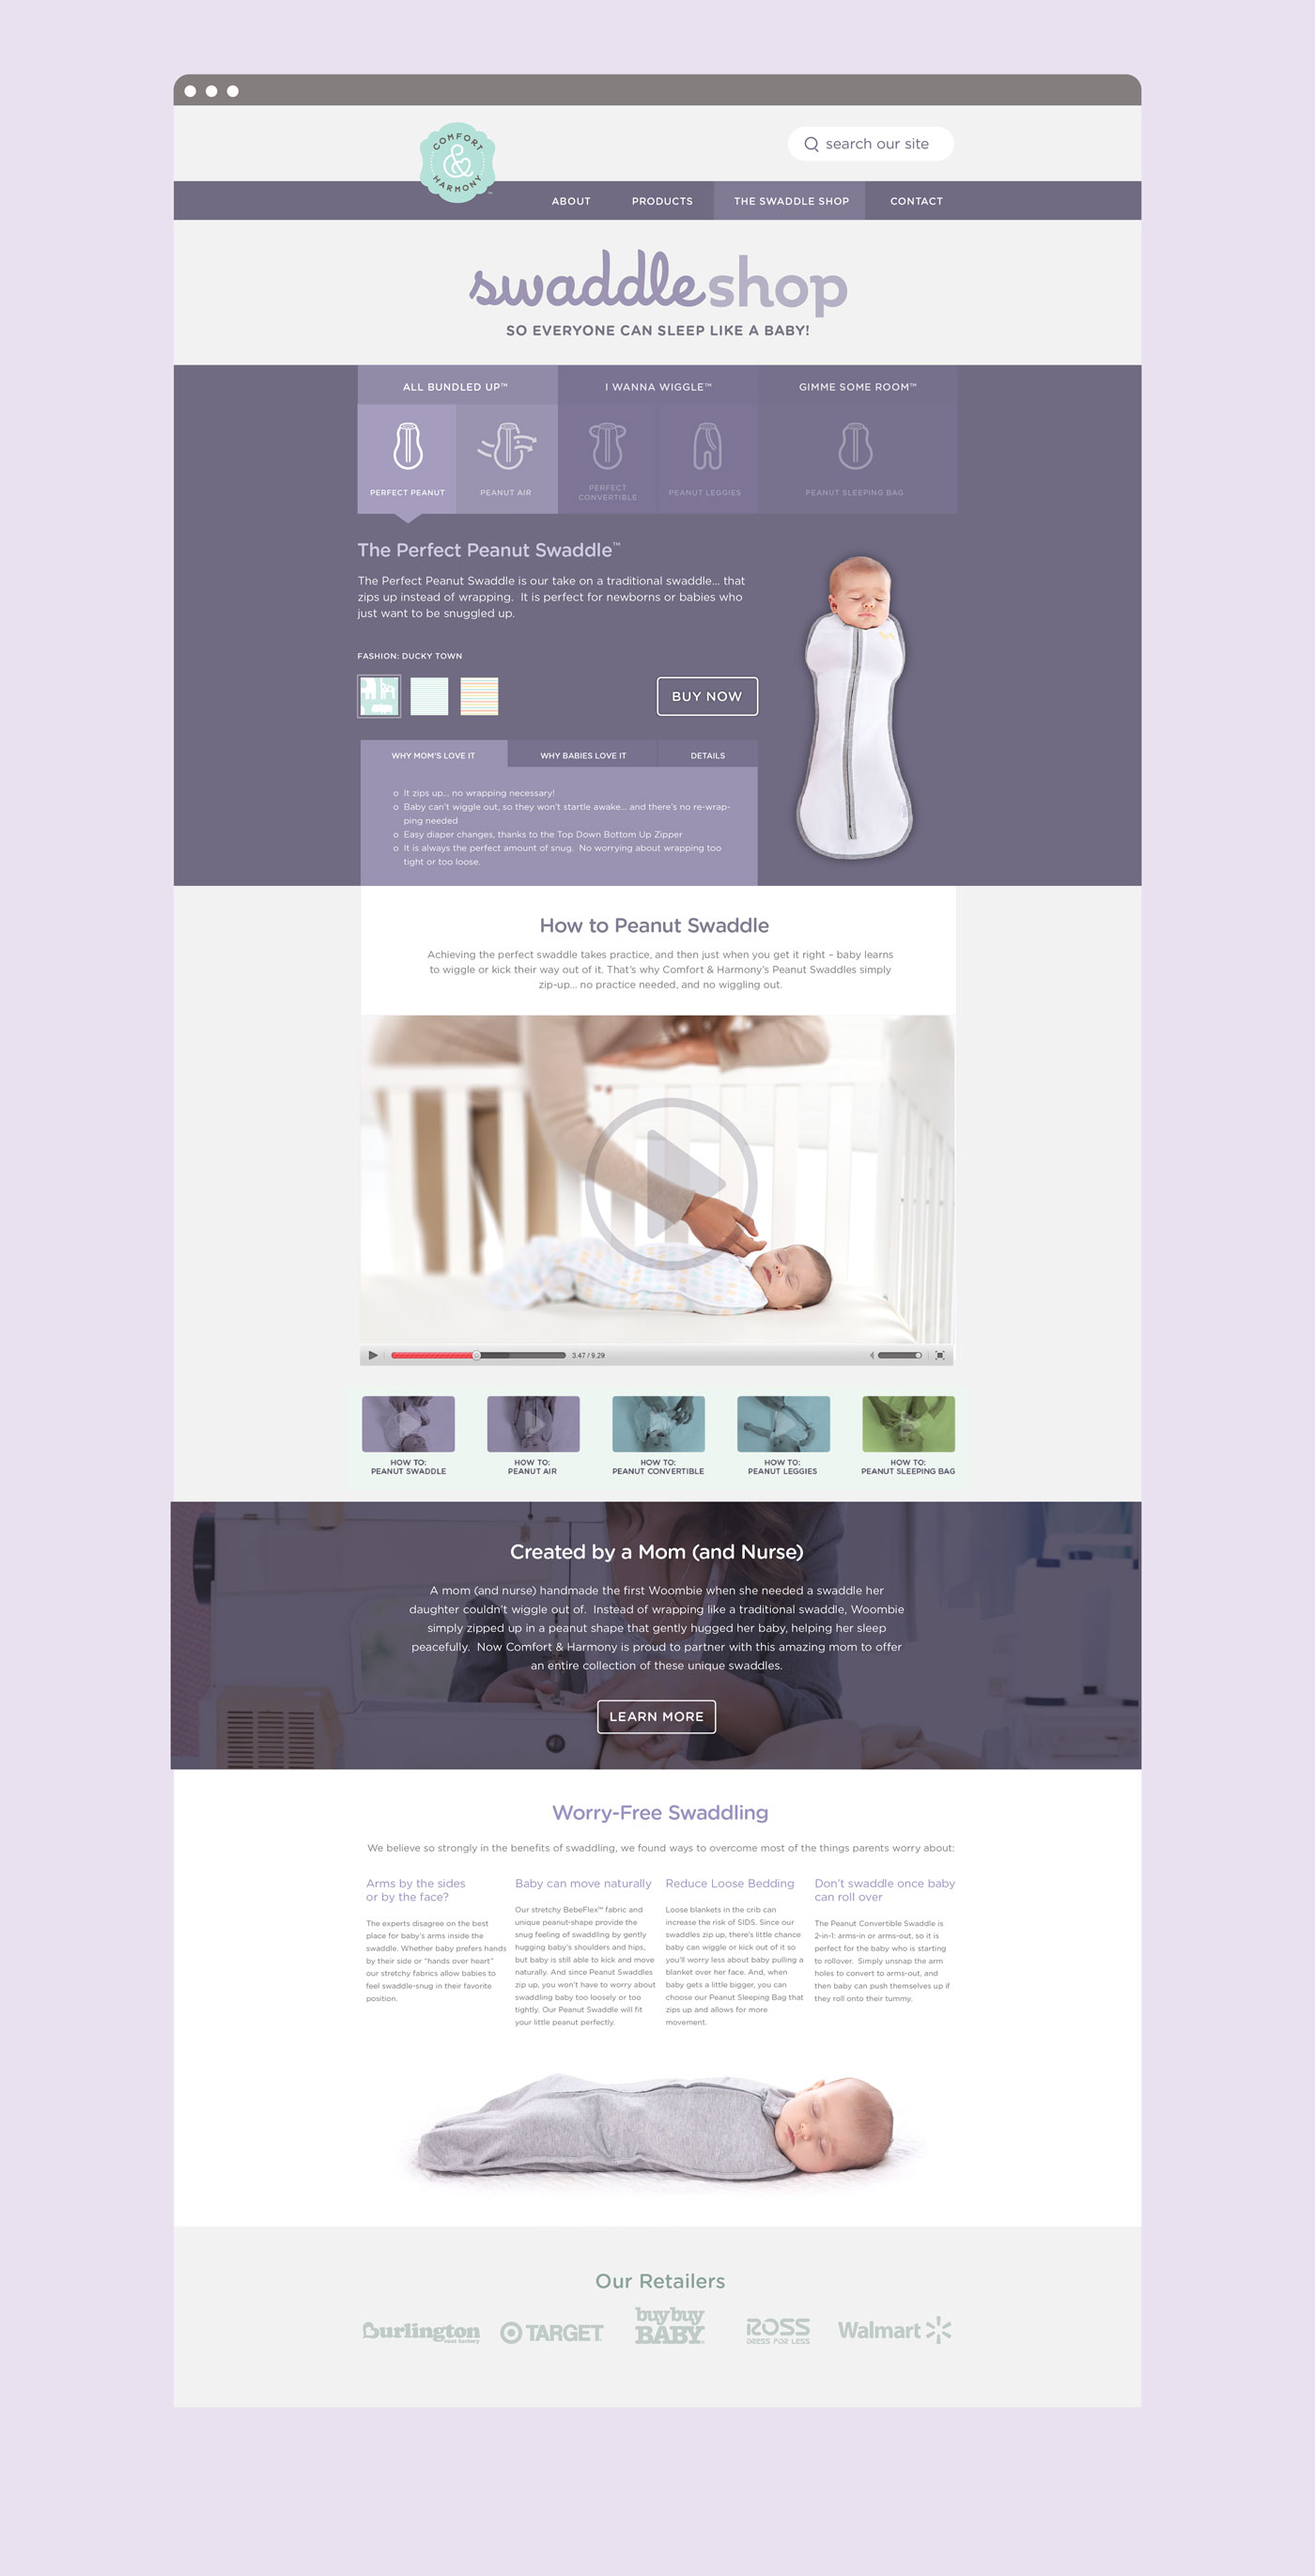
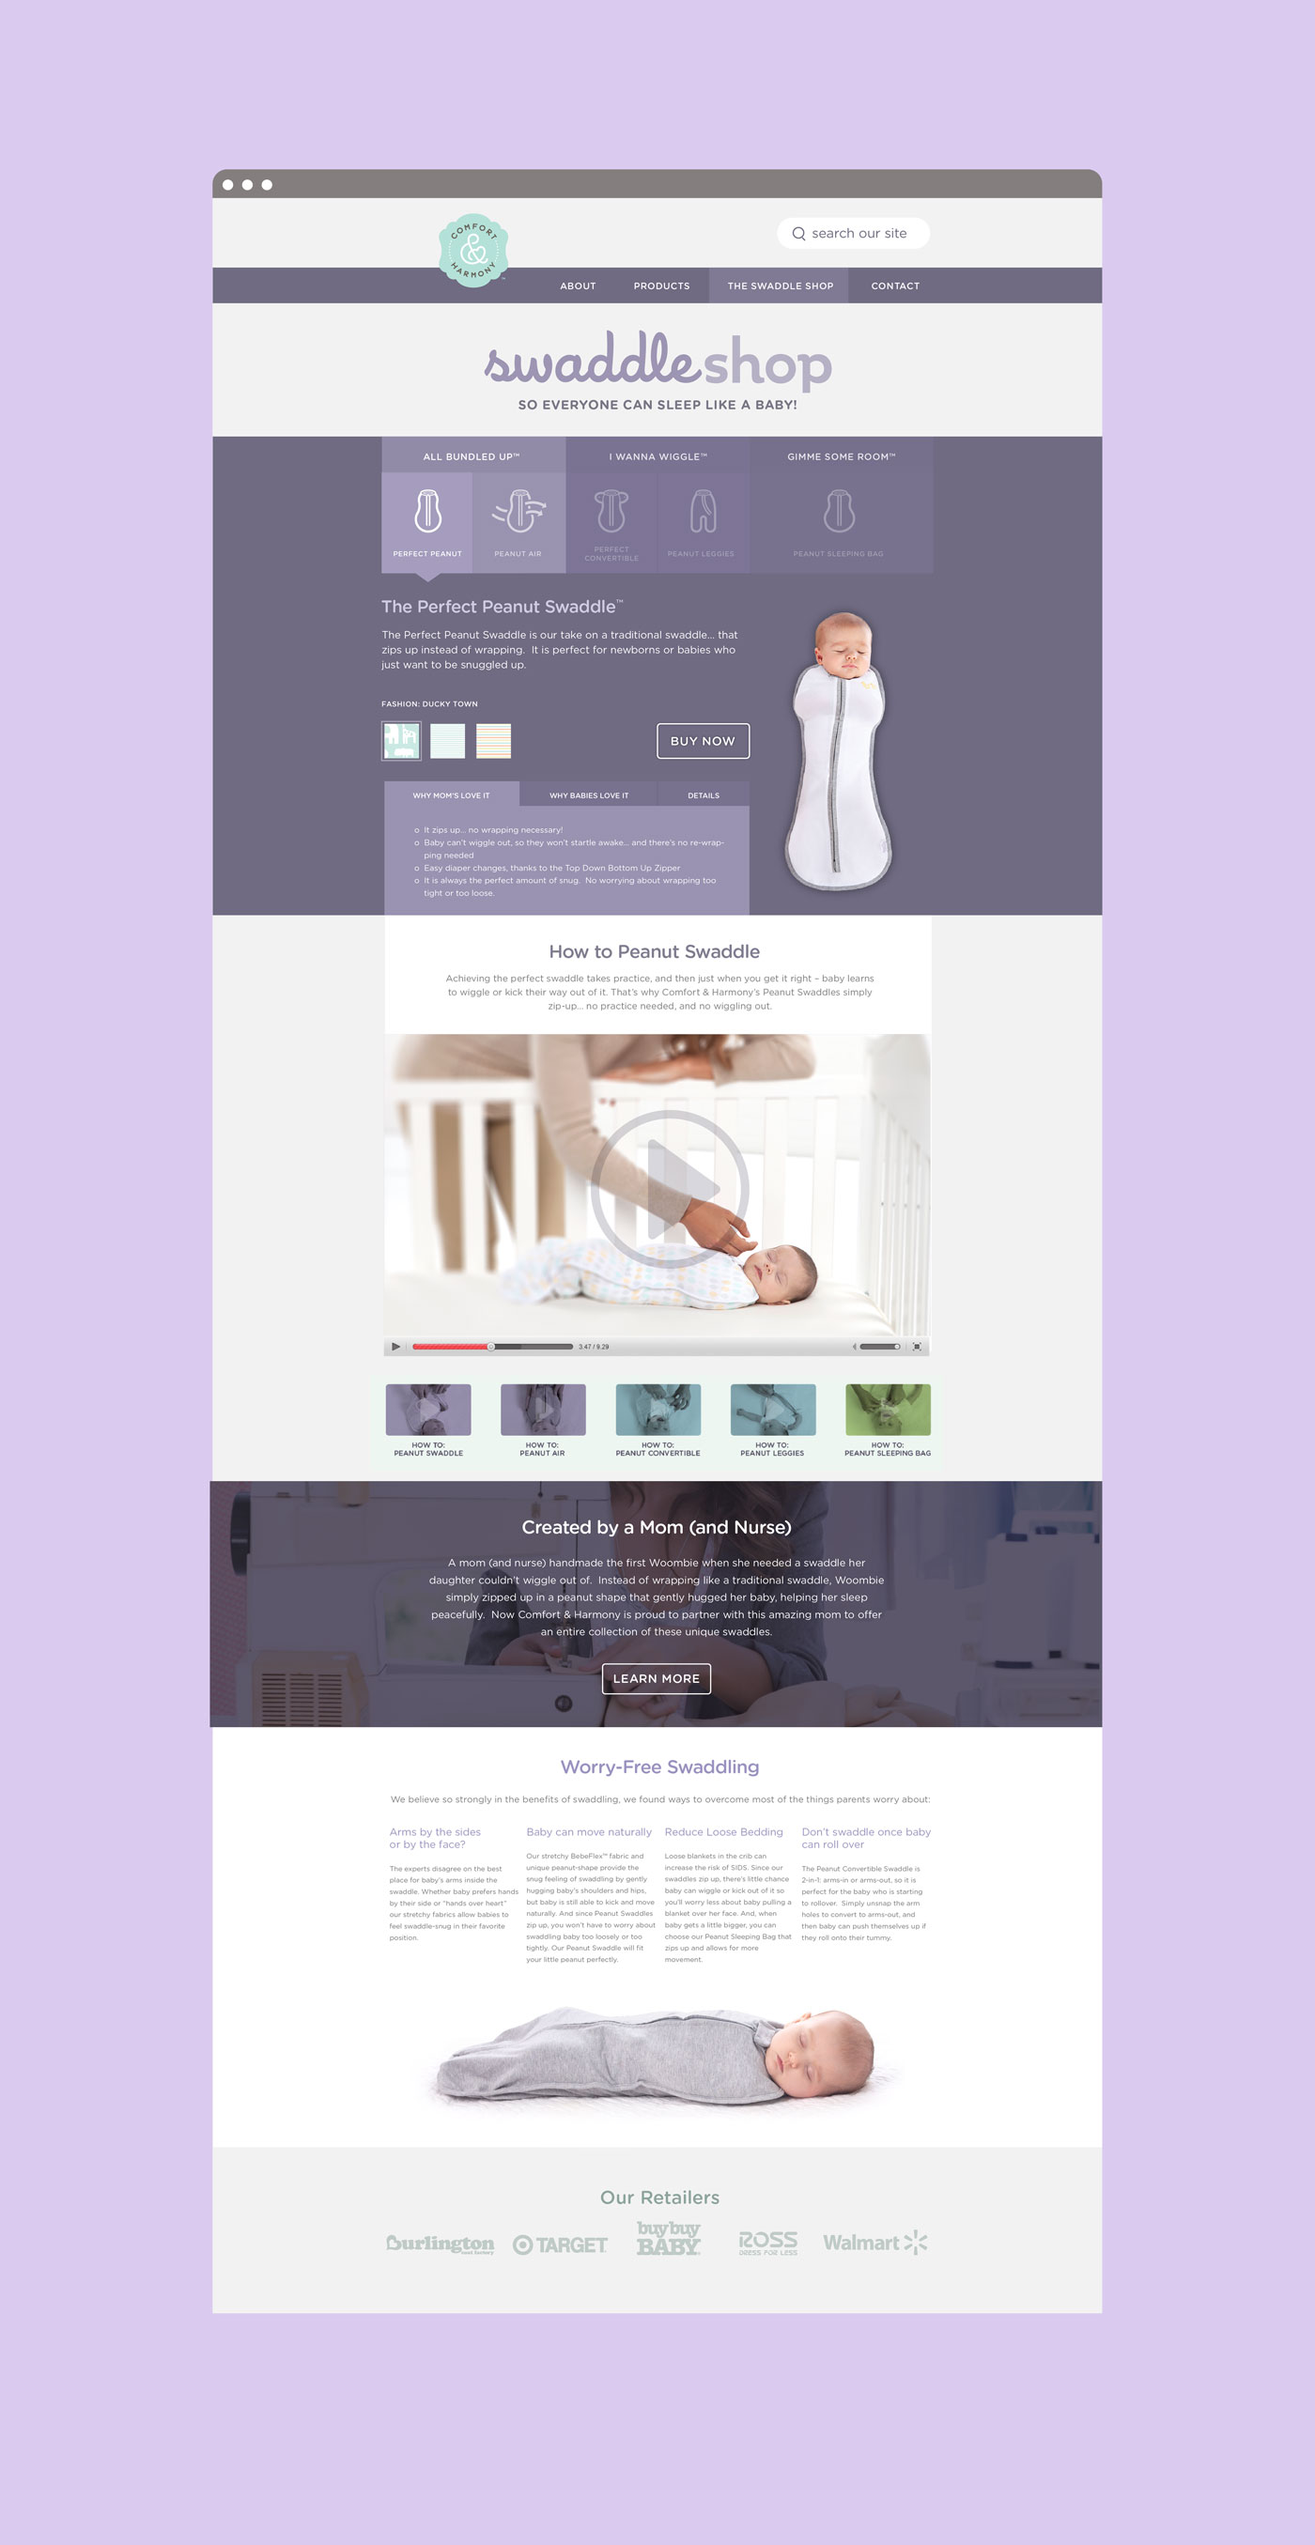
Adding my existing site.

Changed region(s): [[0.1229, 0.031, 0.8907, 0.9609]]

diff --git a/index.html b/index.html
@@ -59,12 +59,17 @@
 	</header><!-- end header -->
 
 	<section class="main clearfix">
+		<div class="work_large">
+			<img src="img/swaddle1.gif" alt="work" />
+		</div>
 
 		<section class="top2">
+
 					<div class="wrapper content_header clearfix">
 						<div class="title">
 							<h2>Swaddle Shop</h2>
 						</div>
+
 						<div class="summary"
 							<p>As swaddles make a comeback, parents are faced with a dizzying array of choices. The Comfort & Harmony<sup>TM</sup> Swaddle Shop helps parents understand their options and make an informed choice based on baby's age and stage.</p>
 						</div>
@@ -74,12 +79,16 @@
 					</div>
 		</section>
 
-		<section class="gallery">
+		<div class="work_large">
+			<img src="img/swaddle2.jpg" alt="work" />
+		</div>
+
+		<!-- <section class="gallery">
 					<div class="work_large">
 						<img src="img/swaddle1.gif" alt="work" />
 						<img src="img/swaddle2.jpg" alt="work" />
 					</div>
-		</section>
+		</section> -->
 
 
 		<section class="top" id="first">

diff --git a/css/main.css b/css/main.css
@@ -113,7 +113,7 @@ sup {font-size:xx-small; vertical-align:super;}
 
 		header .logo{
         margin: 40px auto;
-        width: 135px;
+        width: 145px;
     }
 
 		header .portrait{
@@ -232,11 +232,11 @@ sup {font-size:xx-small; vertical-align:super;}
     -moz-box-sizing: border-box;
     -ms-box-sizing: border-box;
     box-sizing: border-box;
-    background-color: #e9e1f0;
+    background-color: #dbcaef;
     color: #403f42;
     text-align: center;
     font-family: "karla", arial;
-    padding: 7% 12%;
+    padding: 0 12%;
     margin: 0!important;
 		line-height: 1.5;
 }
